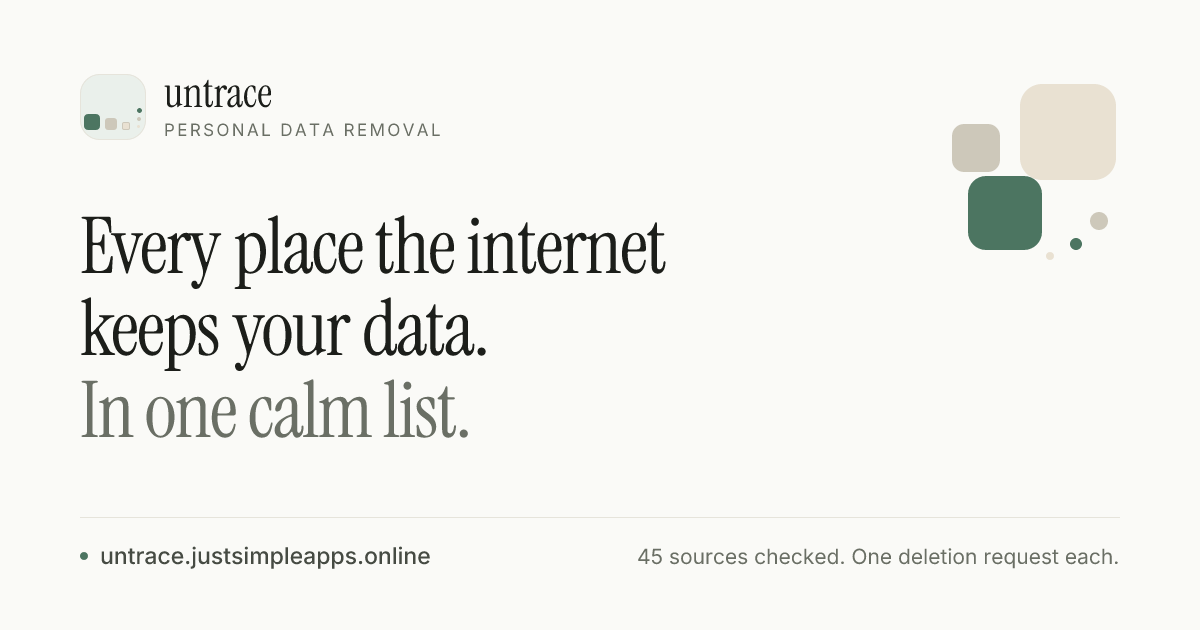
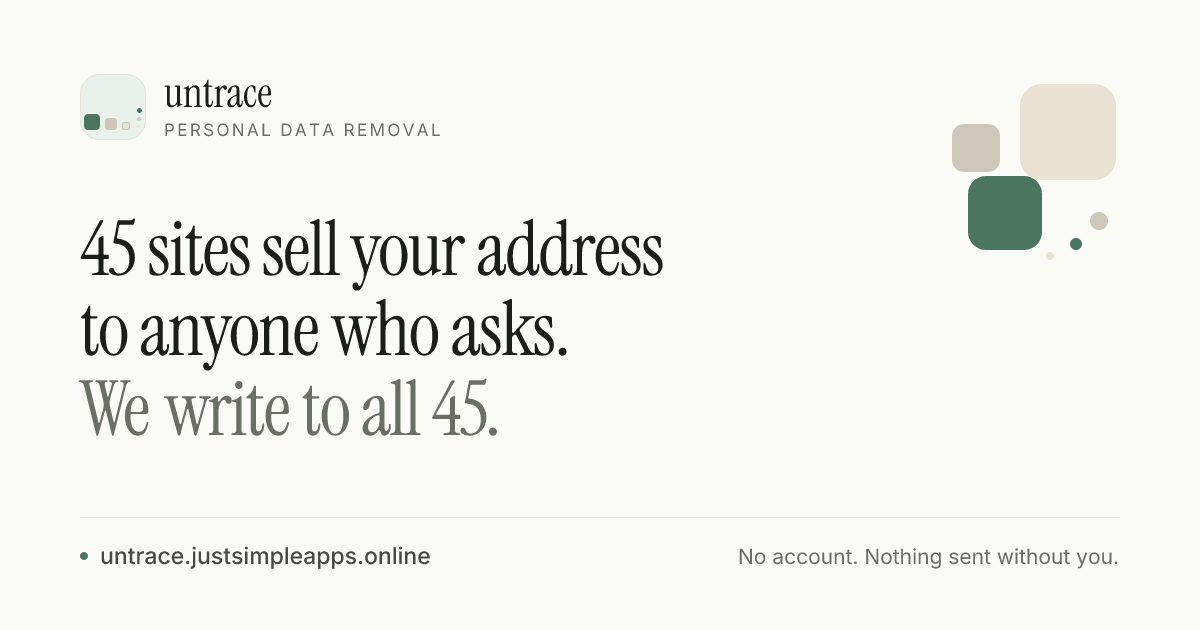
Reposition around the pain: 45 sites sell your address
- Hero headline is now the problem, not the product: 45 sites sell / your
  address / to anyone who asks, with the promise in the supporting line
- Meta title, description, keywords and OG alt text rewritten around it
- Social card regenerated with the same three lines and a calm footer
- Scan page metadata sharpened to match
- Social card route reads its fonts from disk, traced into the function

Changed region(s): [[0.0617, 0.4825, 0.4625, 0.6937], [0.0617, 0.3317, 0.555, 0.4524], [0.5242, 0.8746, 0.925, 0.9048]]

diff --git a/app/api/og/route.tsx b/app/api/og/route.tsx
@@ -15,14 +15,20 @@ const SAND = "#E9E1D2";
 const GREY = "#CDC8BA";
 
 async function loadFont(file: string, origin: string): Promise<ArrayBuffer> {
+  // The woff files are traced into the function (see next.config.ts), so
+  // reading them locally is the reliable path. The origin fetch is a fallback.
   try {
-    const response = await fetch(new URL(`/fonts/${file}`, origin));
-    if (response.ok) return await response.arrayBuffer();
+    const buffer = await readFile(path.join(process.cwd(), "public", "fonts", file));
+    return buffer.buffer.slice(
+      buffer.byteOffset,
+      buffer.byteOffset + buffer.byteLength,
+    ) as ArrayBuffer;
   } catch {
-    /* fall through to the filesystem */
+    /* fall through to the network */
   }
-  const buffer = await readFile(path.join(process.cwd(), "public", "fonts", file));
-  return buffer.buffer.slice(buffer.byteOffset, buffer.byteOffset + buffer.byteLength) as ArrayBuffer;
+  const response = await fetch(new URL(`/fonts/${file}`, origin));
+  if (!response.ok) throw new Error(`Could not load font ${file}`);
+  return await response.arrayBuffer();
 }
 
 function TraceMark() {
@@ -118,15 +124,15 @@ export async function GET(request: Request) {
           </div>
 
           {/* Headline */}
-          <div style={{ display: "flex", flexDirection: "column", maxWidth: 850 }}>
-            <div style={{ fontFamily: "Instrument Serif", fontSize: 78, lineHeight: 1.05, letterSpacing: "-0.02em", color: INK }}>
-              Every place the internet
+          <div style={{ display: "flex", flexDirection: "column", maxWidth: 1000 }}>
+            <div style={{ fontFamily: "Instrument Serif", fontSize: 76, lineHeight: 1.05, letterSpacing: "-0.02em", color: INK }}>
+              45 sites sell your address
             </div>
-            <div style={{ fontFamily: "Instrument Serif", fontSize: 78, lineHeight: 1.05, letterSpacing: "-0.02em", color: INK }}>
-              keeps your data.
+            <div style={{ fontFamily: "Instrument Serif", fontSize: 76, lineHeight: 1.05, letterSpacing: "-0.02em", color: INK }}>
+              to anyone who asks.
             </div>
-            <div style={{ fontFamily: "Instrument Serif", fontSize: 78, lineHeight: 1.05, letterSpacing: "-0.02em", color: MUTED }}>
-              In one calm list.
+            <div style={{ fontFamily: "Instrument Serif", fontSize: 76, lineHeight: 1.05, letterSpacing: "-0.02em", color: MUTED }}>
+              We write to all 45.
             </div>
           </div>
 
@@ -145,7 +151,7 @@ export async function GET(request: Request) {
               <div style={{ fontSize: 23, fontWeight: 500, color: INK_SOFT }}>{SITE_DOMAIN}</div>
             </div>
             <div style={{ fontSize: 21, color: MUTED }}>
-              45 sources checked. One deletion request each.
+              No account. Nothing sent without you.
             </div>
           </div>
         </div>

diff --git a/app/page.tsx b/app/page.tsx
@@ -196,16 +196,17 @@ export default function HomePage() {
             <div className="animate-fade-up">
               <SectionLabel>Personal data removal</SectionLabel>
 
-              <h1 className="mt-5 text-[2.75rem] leading-[1.03] tracking-[-0.02em] text-ink sm:text-[3.5rem] lg:text-[4rem]">
-                Every place the internet keeps your data.
-                <span className="block text-muted">In one calm list.</span>
+              <h1 className="mt-5 text-[2.5rem] leading-[1.04] tracking-[-0.02em] text-ink sm:text-[3rem] lg:text-[3.5rem]">
+                45 sites sell
+                <span className="block">your address</span>
+                <span className="block text-muted">to anyone who asks.</span>
               </h1>
 
               <p className="mt-7 max-w-xl text-[1.0625rem] leading-[1.7] text-ink-soft">
-                Untrace checks the people-search sites, marketing databases and
-                advertising profiles that hold your name, address and phone
-                number, then writes a deletion request to each owner, ready for
-                you to send.
+                Untrace finds every listing that holds your name, street and
+                phone number, then writes the deletion request that takes you
+                off each one. You send the emails. Nothing leaves your browser
+                until you do.
               </p>
 
               <div className="mt-9 flex flex-wrap items-center gap-3">

diff --git a/app/scan/page.tsx b/app/scan/page.tsx
@@ -6,13 +6,13 @@ import { SiteFooter } from "@/components/site-footer";
 import { ScanFlow } from "@/components/scan/scan-flow";
 
 export const metadata: Metadata = {
-  title: "Start a free scan",
+  title: "Check the 45 sites selling your address",
   description:
-    "Check 45 people-search sites, marketing databases and ad profiles for your name, address and phone number. Free, no account, results in seconds.",
+    "One free check across 45 people-search sites, marketing databases and ad profiles. See every listing that holds your name, address and phone number, and who to write to about it.",
   alternates: { canonical: "/scan" },
   openGraph: {
     url: "/scan",
-    title: "Start a free scan | Untrace",
+    title: "Check the 45 sites selling your address | Untrace",
     description:
       "See which directories publish your name, address and phone number, and who to write to about it.",
     images: [
@@ -20,7 +20,7 @@ export const metadata: Metadata = {
         url: "/og.png",
         width: 1200,
         height: 630,
-        alt: "Untrace: every place the internet keeps your data, in one calm list",
+        alt: "Untrace: 45 sites sell your address to anyone who asks, we write the deletion request for all 45",
       },
     ],
   },

diff --git a/lib/site.ts b/lib/site.ts
@@ -4,9 +4,10 @@ export const SITE_DOMAIN = "untrace.justsimpleapps.online";
 
 export const SOURCE_URL = "https://github.com/owaiskhan-ash/Digital-Wipe";
 
-export const SITE_TITLE = "Untrace | Find and remove your personal data online";
+export const SITE_TITLE = "45 sites sell your address. Untrace deletes you from all 45.";
 
 export const SITE_DESCRIPTION =
-  "Untrace checks 45 people-search sites, data brokers and ad profiles for your name, address and phone number, then writes a deletion request to each owner for you.";
+  "Data brokers and people-search sites sell your name, address and phone number to anyone who asks. Untrace finds every listing and writes the deletion request that removes you from all 45.";
 
-export const SITE_TAGLINE = "Every place the internet keeps your data. In one calm list.";
+export const SITE_TAGLINE =
+  "45 sites sell your address to anyone who asks. We write to all 45.";

diff --git a/app/layout.tsx b/app/layout.tsx
@@ -20,6 +20,8 @@ export const metadata: Metadata = {
   description: SITE_DESCRIPTION,
   keywords: [
     "remove personal data from internet",
+    "remove home address from internet",
+    "opt out of data brokers",
     "data broker removal",
     "people search opt out",
     "delete personal information",
@@ -57,7 +59,7 @@ export const metadata: Metadata = {
         url: "/og.png",
         width: 1200,
         height: 630,
-        alt: "Untrace: every place the internet keeps your data, in one calm list",
+        alt: "Untrace: 45 sites sell your address to anyone who asks, we write the deletion request for all 45",
       },
     ],
   },

diff --git a/next.config.ts b/next.config.ts
@@ -2,6 +2,10 @@ import type { NextConfig } from "next";
 
 const nextConfig: NextConfig = {
   allowedDevOrigins: ["*.e2b.app", "localhost:3000"],
+  // The social card route renders with the self-hosted woff files.
+  outputFileTracingIncludes: {
+    "/api/og": ["./public/fonts/**"],
+  },
 };
 
 export default nextConfig;

diff --git a/README.md b/README.md
@@ -1,6 +1,8 @@
 # Untrace
 
-Find every trace of your personal data online, then ask each owner to delete it.
+45 sites sell your address to anyone who asks. Untrace finds every listing that
+holds your name, street and phone number, then writes the deletion request that
+takes you off each one.
 
 **Live:** [untrace.justsimpleapps.online](https://untrace.justsimpleapps.online)
 
